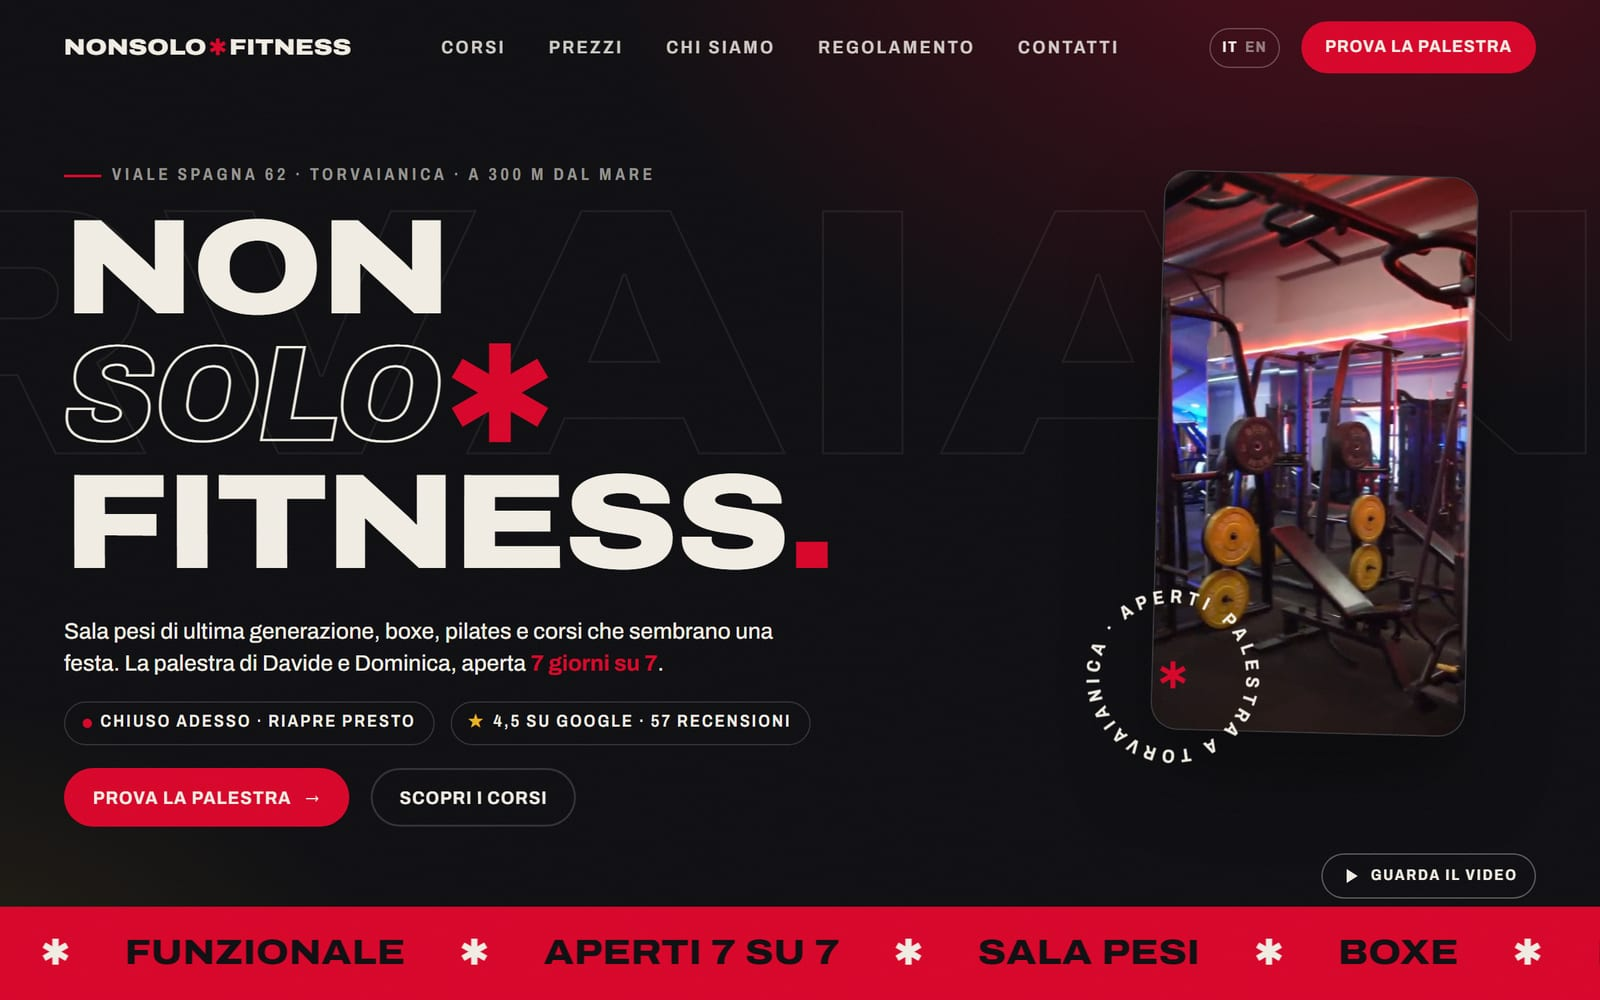
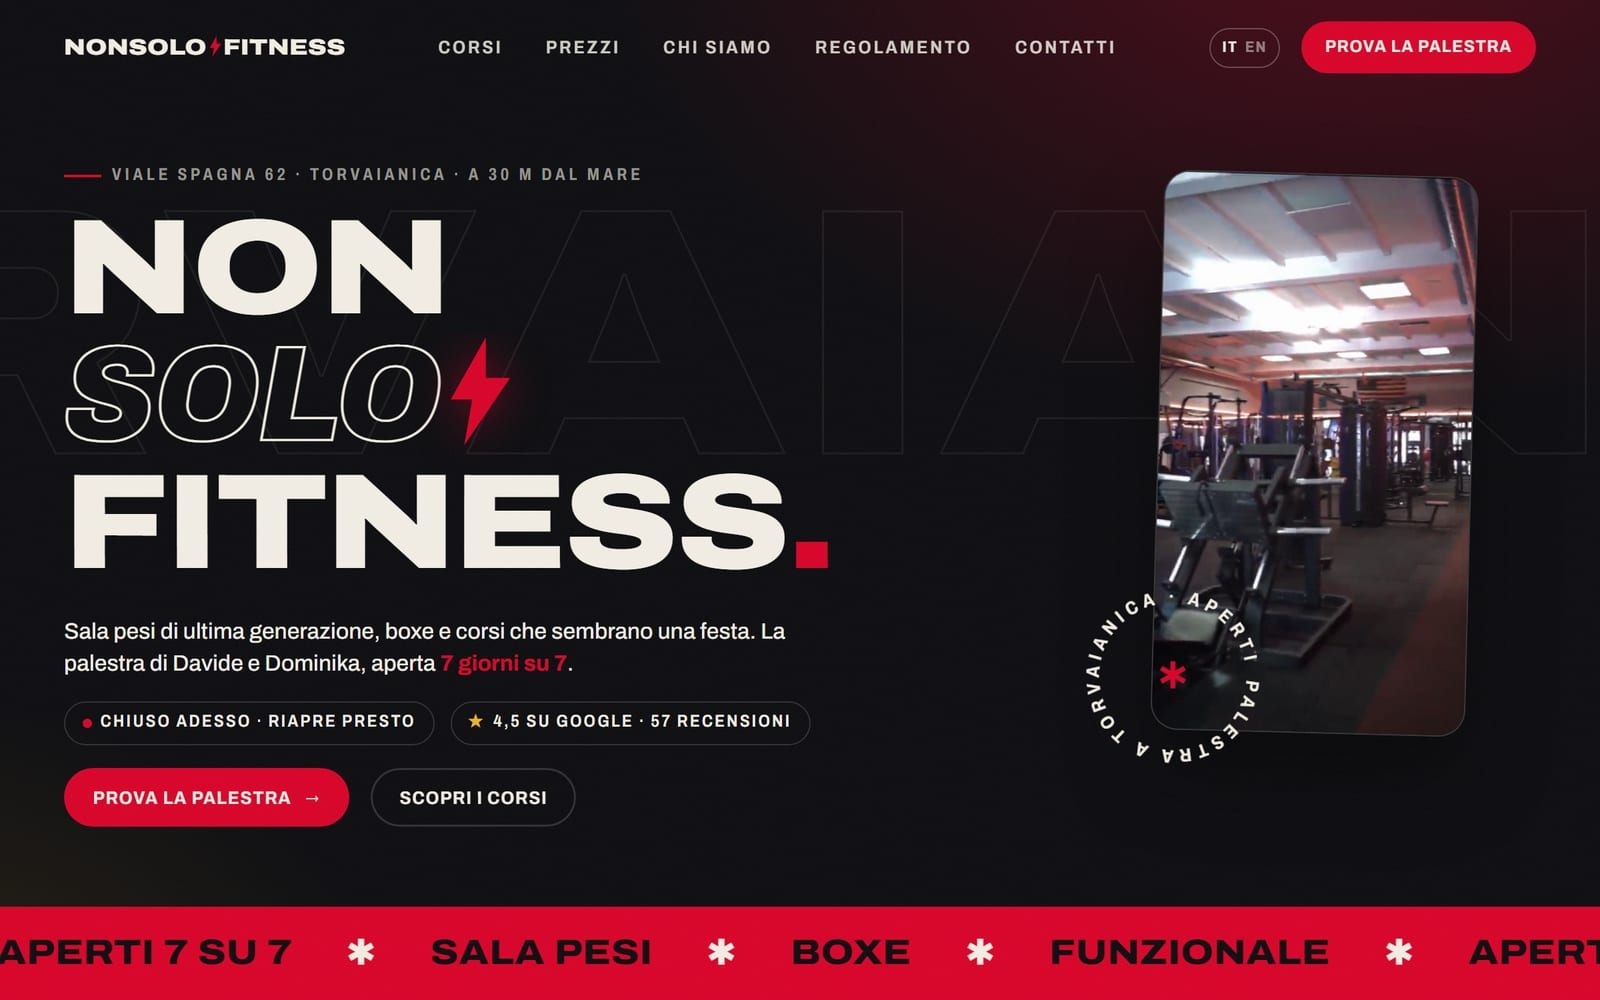
feat: mark Nonsolofitness as live on its own domain
The gym launched yesterday at www.nonsolofitnesstorvaianica.com — the first
client site live on its own domain. Update the case study accordingly:

- Badge "In lancio" -> "Online", live link added, result copy now names the
  domain instead of "ready to launch".
- Cover re-captured from the live production site.
- Hero collage: swap MatchMood (in-house product) for Nonsolofitness, so the
  hero shows three client works, two of them labelled with real domains.

diff --git a/src/content/work.ts b/src/content/work.ts
@@ -160,12 +160,12 @@ export const caseStudies: CaseStudy[] = [
     },
     cover: "/work/nonsolofitness.jpg",
     stack: ["Web", "SEO locale", "i18n"],
-    links: {},
+    links: { live: "https://www.nonsolofitnesstorvaianica.com" },
     roles: {
       it: ["Sito bilingue", "SEO locale", "Funnel recensioni QR"],
       en: ["Bilingual site", "Local SEO", "QR review funnel"],
     },
-    badge: { it: "In lancio", en: "Launching" },
+    badge: { it: "Online", en: "Live" },
     summary: {
       it: "Sito bilingue per la palestra di Davide e Dominica: una pagina dedicata a ogni corso, SEO locale e un circuito di recensioni con QR stampabili.",
       en: "Bilingual site for Davide and Dominica's gym: a dedicated page per course, local SEO and a review loop driven by printable QR signs.",
@@ -184,8 +184,8 @@ export const caseStudies: CaseStudy[] = [
         en: "Zero external requests, structured data for Google, and QR signs pointing at an updatable link: if the destination changes, nothing gets reprinted.",
       },
       result: {
-        it: "Pronto al lancio sul dominio della palestra, con contenuti e listino forniti direttamente dal cliente.",
-        en: "Ready to launch on the gym's domain, with content and pricing supplied directly by the client.",
+        it: "Online su nonsolofitnesstorvaianica.com, con contenuti e listino forniti direttamente dal cliente.",
+        en: "Live at nonsolofitnesstorvaianica.com, with content and pricing supplied directly by the client.",
       },
     },
   },

diff --git a/src/components/sections/Hero.tsx b/src/components/sections/Hero.tsx
@@ -12,9 +12,9 @@ import { ArrowRight } from "lucide-react";
 /** Real screenshots stacked in the hero — evidence before words. */
 const COLLAGE = [
   {
-    slug: "matchmood",
-    cover: "/work/matchmood.jpg",
-    label: "matchmood.dev",
+    slug: "nonsolofitness",
+    cover: "/work/nonsolofitness.jpg",
+    label: "nonsolofitnesstorvaianica.com",
     className:
       "absolute right-0 top-0 w-[58%] [--tilt:2.5deg] [animation-delay:-2s]",
   },
